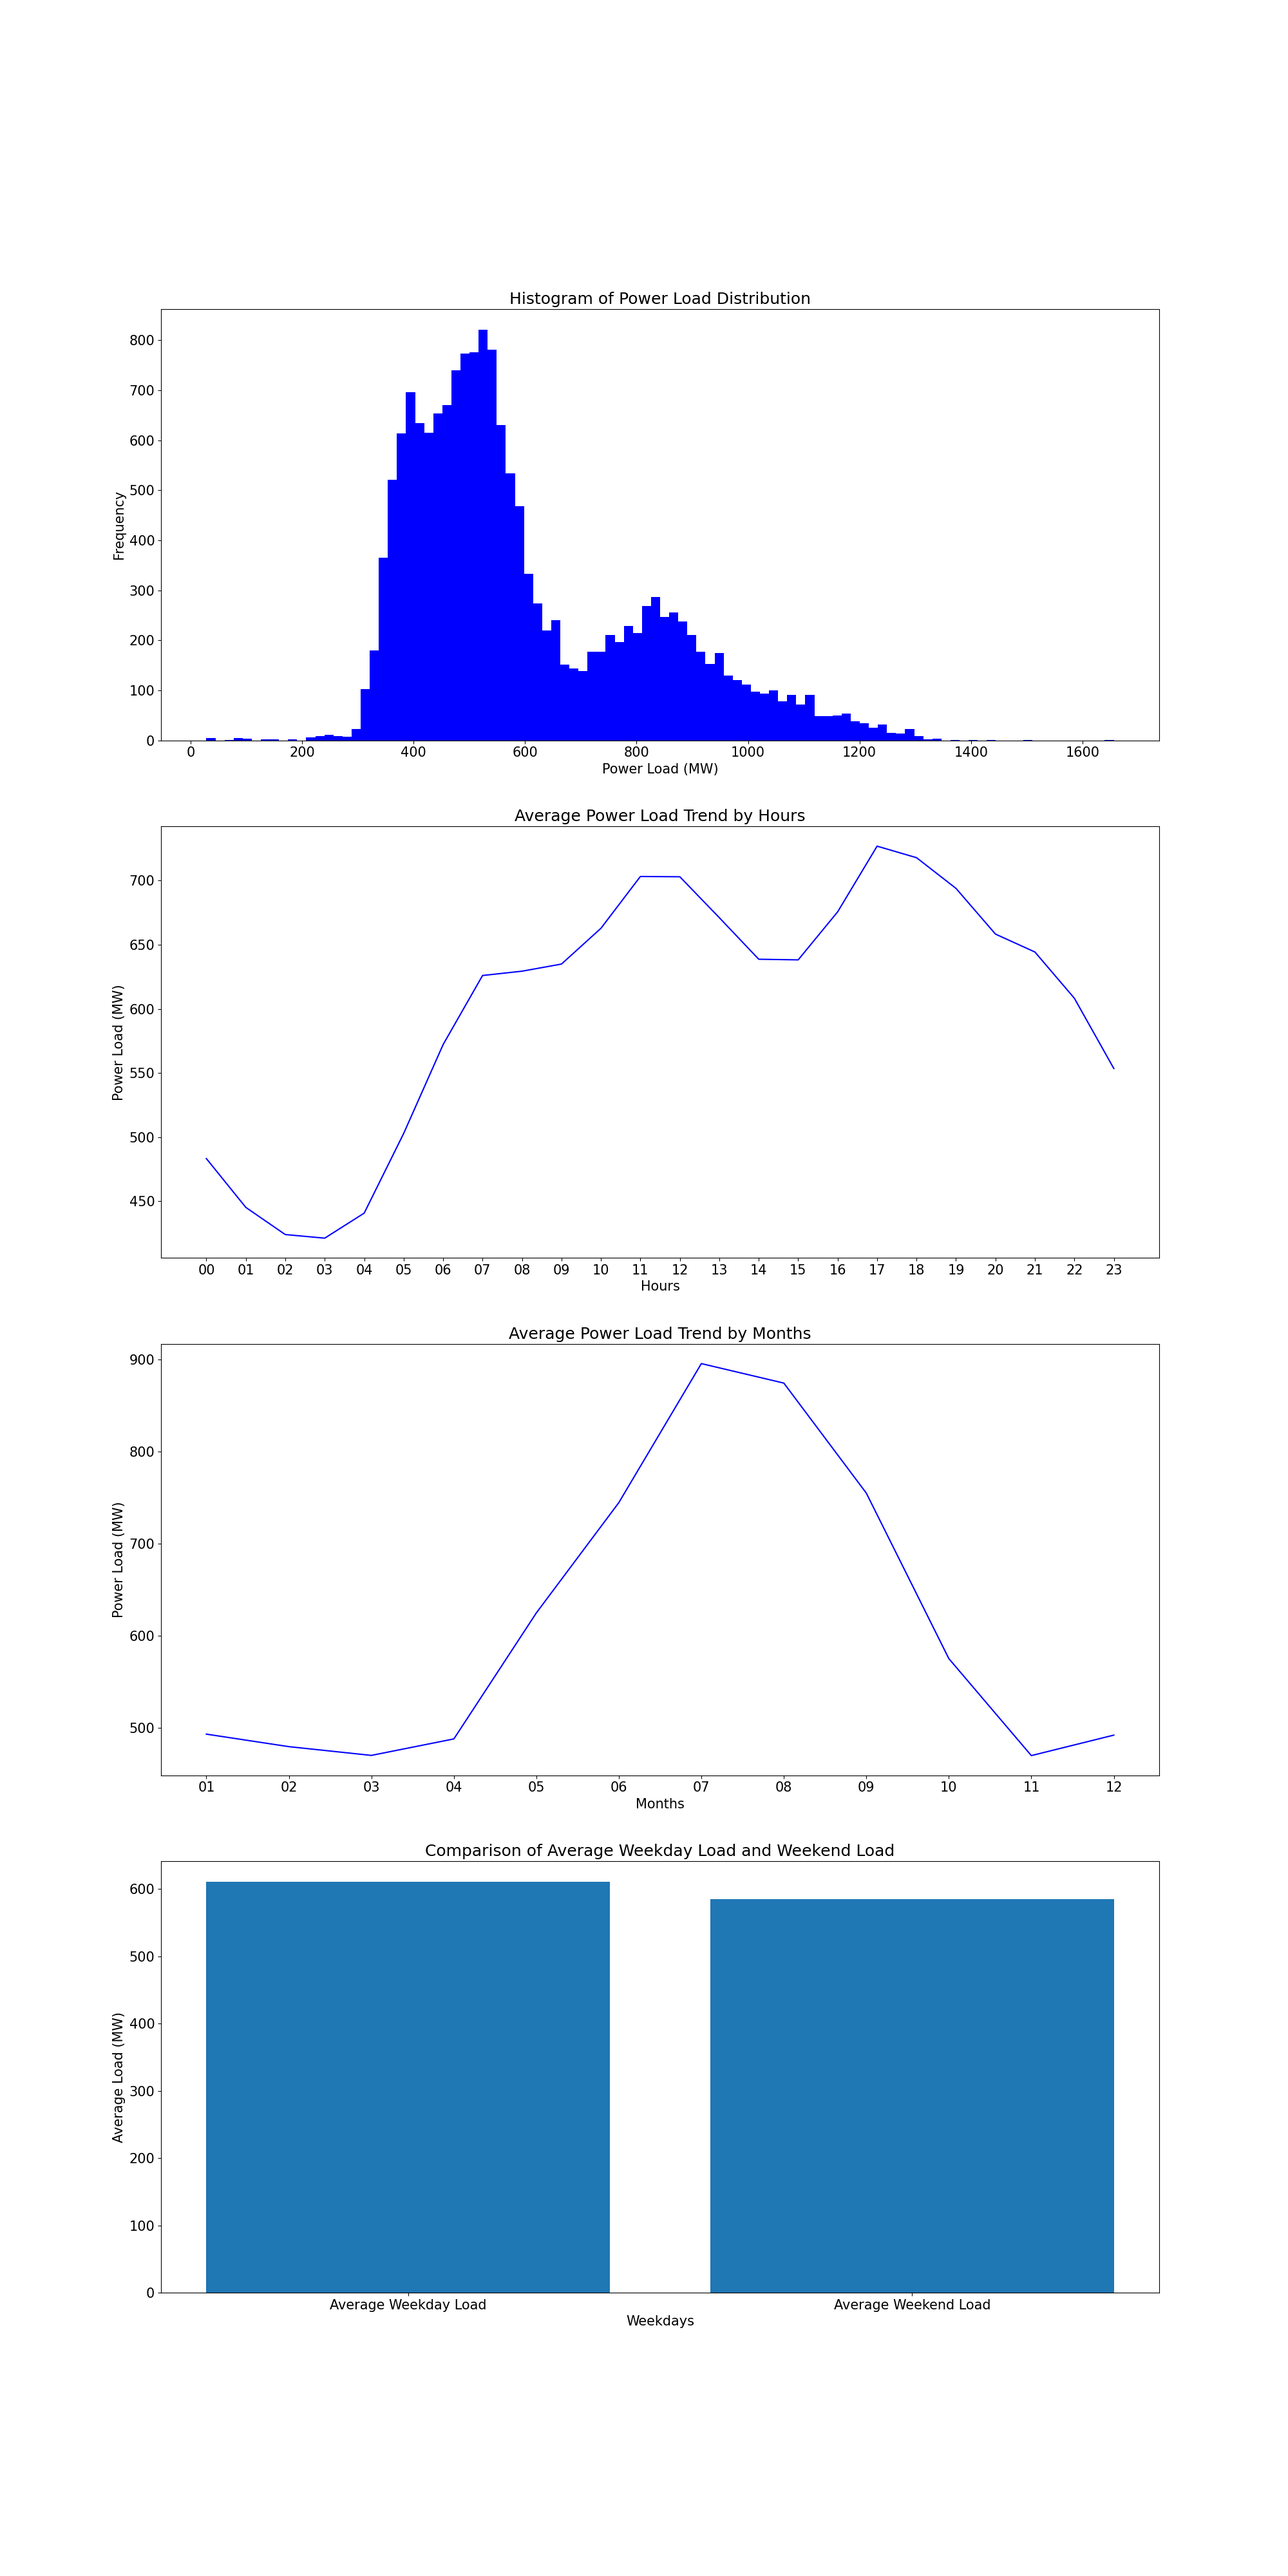
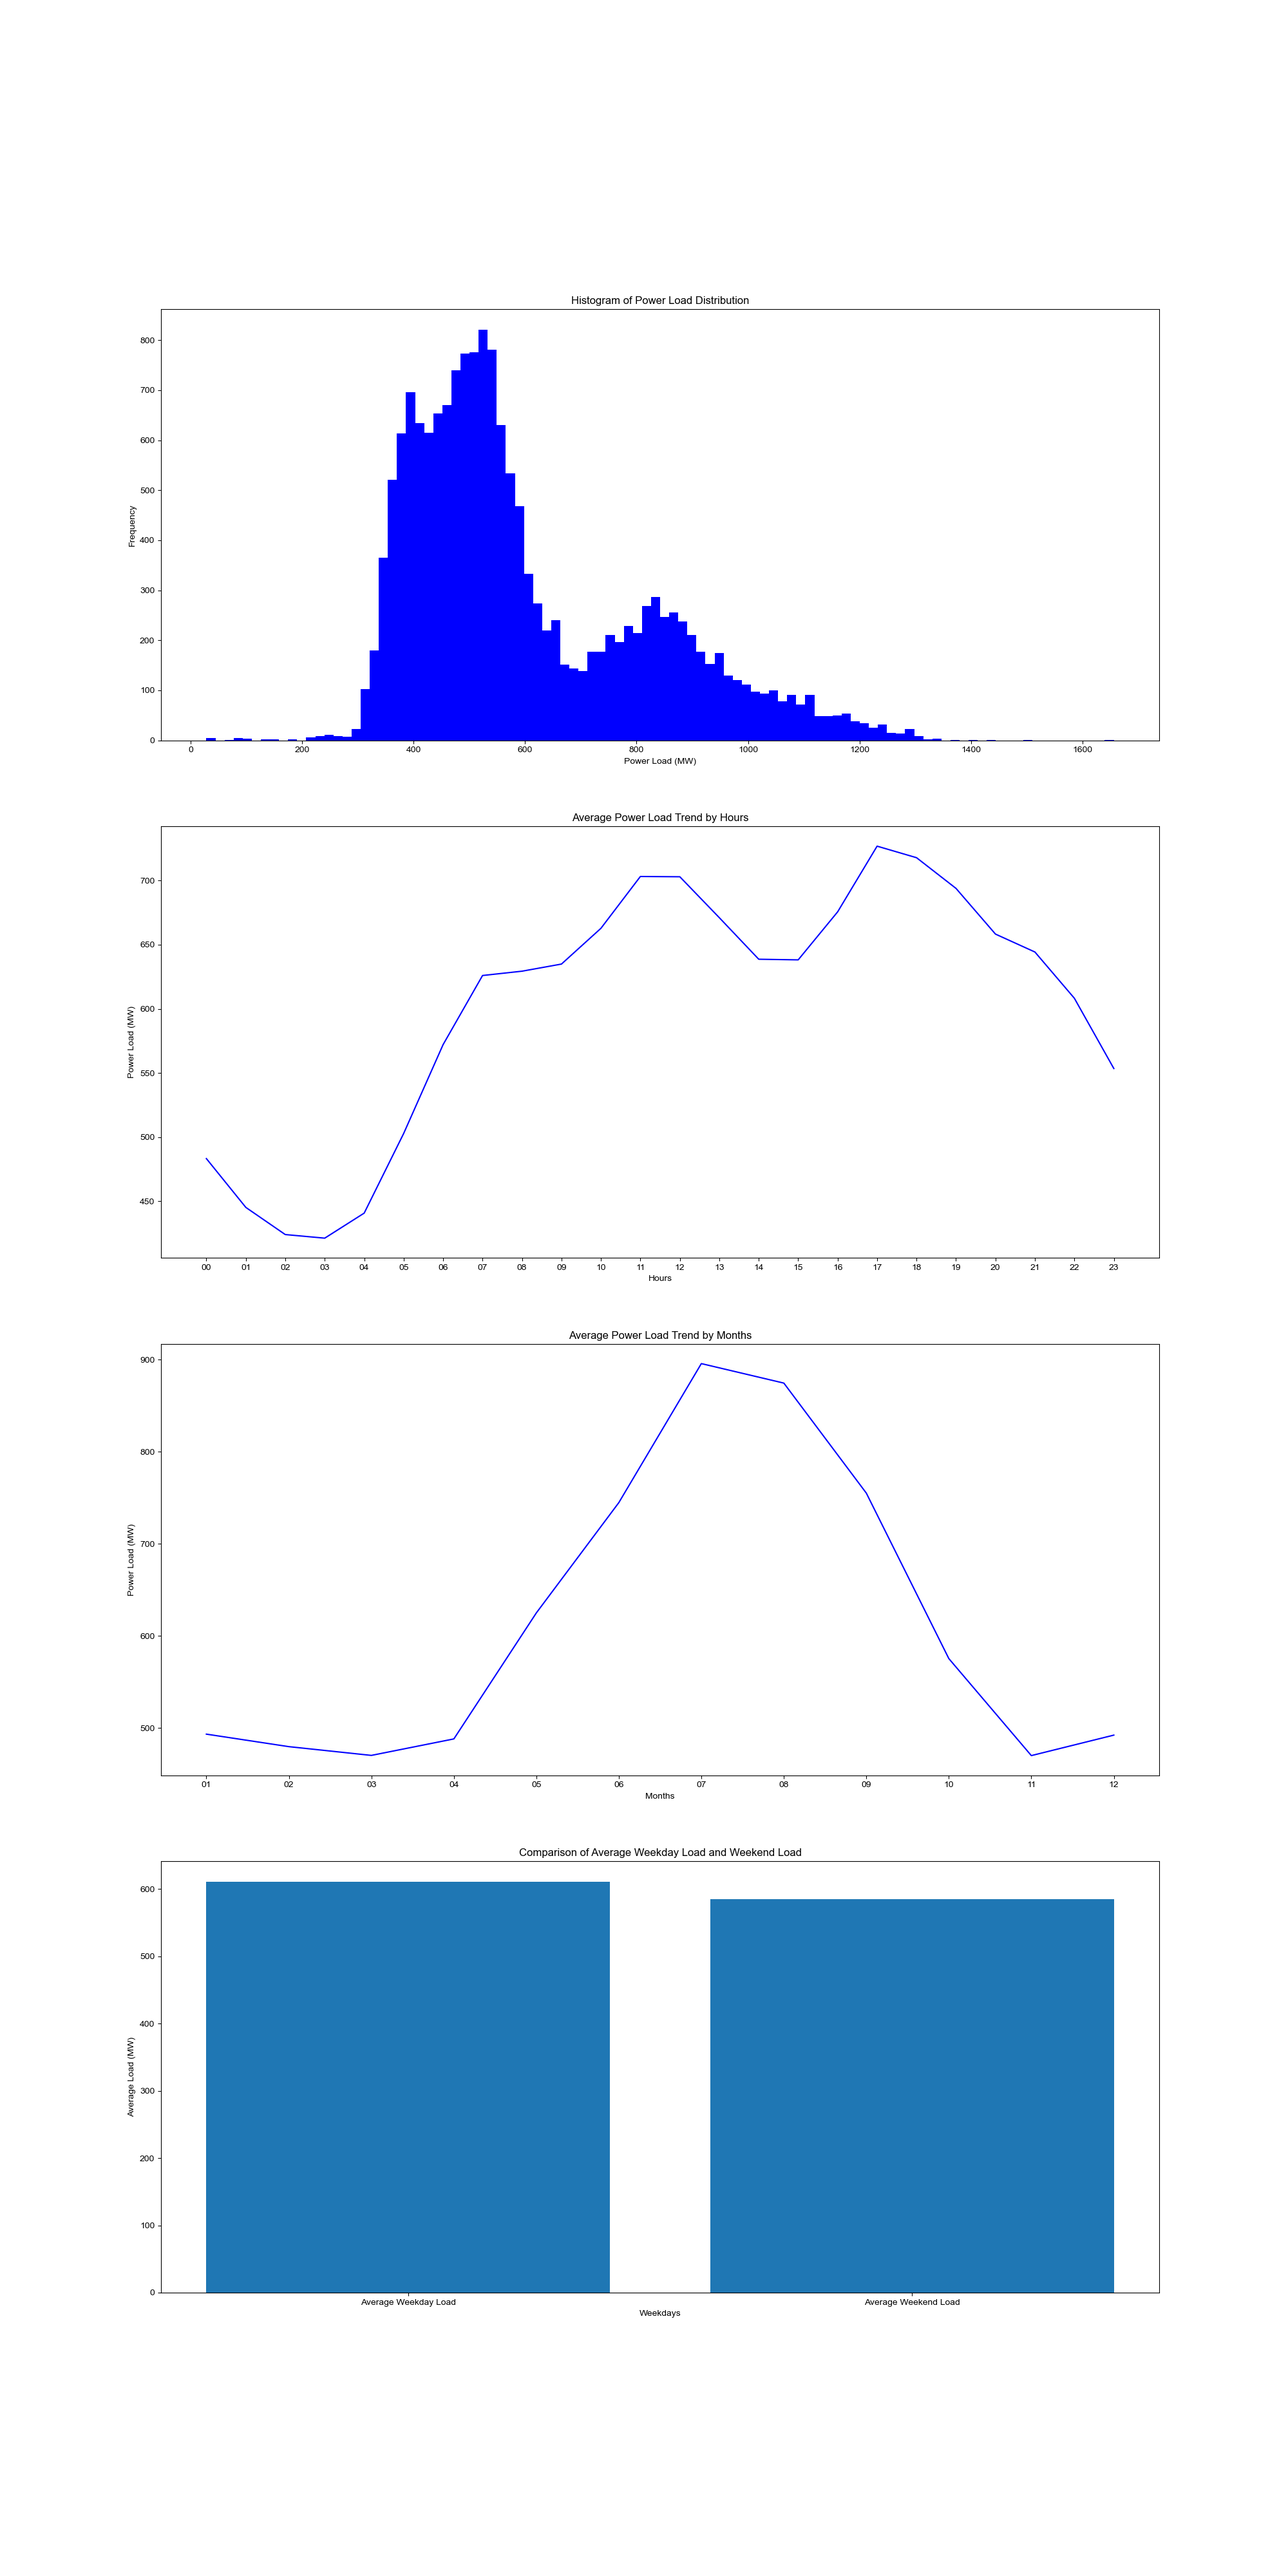
Fix small bug about model training and start prediction

diff --git a/src/predict.py b/src/predict.py
@@ -1,0 +1,89 @@
+import os
+import pandas as pd
+import numpy as np
+import datetime
+
+from anaconda_navigator.widgets.dialogs import logger
+
+from utils.log import Logger
+from utils.common import data_preprocessing
+from sklearn.metrics import mean_absolute_error
+import matplotlib.ticker as mick
+import joblib
+import matplotlib.pyplot as plt
+
+plt.rcParams['font.family'] = 'Arial'
+plt.rcParams['axes.unicode_minus'] = False
+
+
+class PowerLoadPredictor(object):
+    def __init__(self, file_path, log_name):
+        logfile_name = 'predict' + datetime.datetime.now().strftime('%Y%m%d%H%M%S') + '.log'
+        self.logger = Logger('../', logfile_name).get_logger()
+        self.data_source = data_preprocessing(file_path)
+        self.time_load_dict = self.data_source.set_index('time')['power_load'].to_dict()
+
+        self.logger.info(
+            f"========== Extracting features for prediction time: {datetime.datetime.now().strftime('%Y%m%d%H%M%S')} ==========")
+
+
+def pred_feature_extraction(data_dict, time, logger):
+    """
+    Extract prediction features while keeping the same feature column names
+    used during model training
+
+    :param data_dict: historical data in dictionary format, key = timestamp, value = load
+    :param time: prediction timestamp as a string, format example: 2024-12-20 09:00:00
+    :param logger: logger object
+    :return: feature DataFrame and feature name list
+    """
+    # List of feature column names
+    feature_names = ['hour_00', 'hour_01', 'hour_02', 'hour_03', 'hour_04', 'hour_05',
+                     'hour_06', 'hour_07', 'hour_08', 'hour_09', 'hour_10', 'hour_11',
+                     'hour_12', 'hour_13', 'hour_14', 'hour_15', 'hour_16', 'hour_17',
+                     'hour_18', 'hour_19', 'hour_20', 'hour_21', 'hour_22', 'hour_23',
+                     'month_01', 'month_02', 'month_03', 'month_04', 'month_05', 'month_06',
+                     'month_07', 'month_08', 'month_09', 'month_10', 'month_11', 'month_12',
+                     'previous_1', 'previous_2', 'previous_3', 'yesterday_load']
+
+    # Store hour features using a list
+    hour_list = []
+    pred_hour = time[11:13]
+    for i in range(24):
+        if pred_hour == feature_names[i][5:7]:
+            hour_list.append(1)
+        else:
+            hour_list.append(0)
+
+    # Store month features using a list
+    month_list = []
+    pred_month = time[5:7]
+    for i in range(24,36):
+        if pred_month == feature_names[i][6:8]:
+            month_list.append(1)
+        else:
+            month_list.append(0)
+
+    # Store historical load features using a list
+    his_list = []
+
+    last_1h_time = (pd.to_datetime(time) - pd.to_datetime('1h')).strftime('%Y-%m-%d %H:%M:%S')
+    data_dict.get(last_1h_time,600)
+
+
+if __name__ == '__main__':
+    power_load_predictor = PowerLoadPredictor('../data/test.csv', 'predict')
+
+    # Load the trained model
+    model = joblib.load('../model/xgb.pkl')
+
+    evaluate_list = []
+    pred_times_list = power_load_predictor.data_source[power_load_predictor['time'] >= '2015-08=01 00:00:00']['time']
+
+    for pred_time in pred_times_list:
+        data_his_dict = {
+            k: v for k, v in pred_times_list.items() if k < pred_time
+        }
+
+    # Predict the load
+    precessed_data, feature_cols = pred_feature_extraction(data_his_dict, power_load_predictor.time_load_dict)

diff --git a/src/train.py b/src/train.py
@@ -10,8 +10,8 @@ from sklearn.model_selection import GridSearchCV
 from sklearn.metrics import mean_squared_error, mean_absolute_error
 import joblib
 
-plt.rcParams['font.sans-serif'] = ['SimHei']
-plt.rcParams['font.size'] = 15
+plt.rcParams['font.family'] = 'Arial'
+plt.rcParams['axes.unicode_minus'] = False
 
 class PowerLoadModel:
     def __init__(self, data_path):
@@ -172,12 +172,14 @@ def model_train(data, features, logger):
     logger.info(f"Best parameters: {grid_search.best_params_}")
     logger.info(f"Finish time: {datetime.datetime.now().strftime('%Y-%m-%d %H:%M:%S')}")
 
+    best_xgb_model = grid_search.best_estimator_
+
     # Model Evaluation
     # Predictions on training set
-    y_pred_train = xgb_estimator.predict(x_train)
+    y_pred_train = best_xgb_model.predict(x_train)
 
     # Prediction on testing set
-    y_pred_test = xgb_estimator.predict(x_test)
+    y_pred_test = best_xgb_model.predict(x_test)
 
     # Training set MSE and MAE
     mse_train = mean_squared_error(y_train, y_pred_train)
